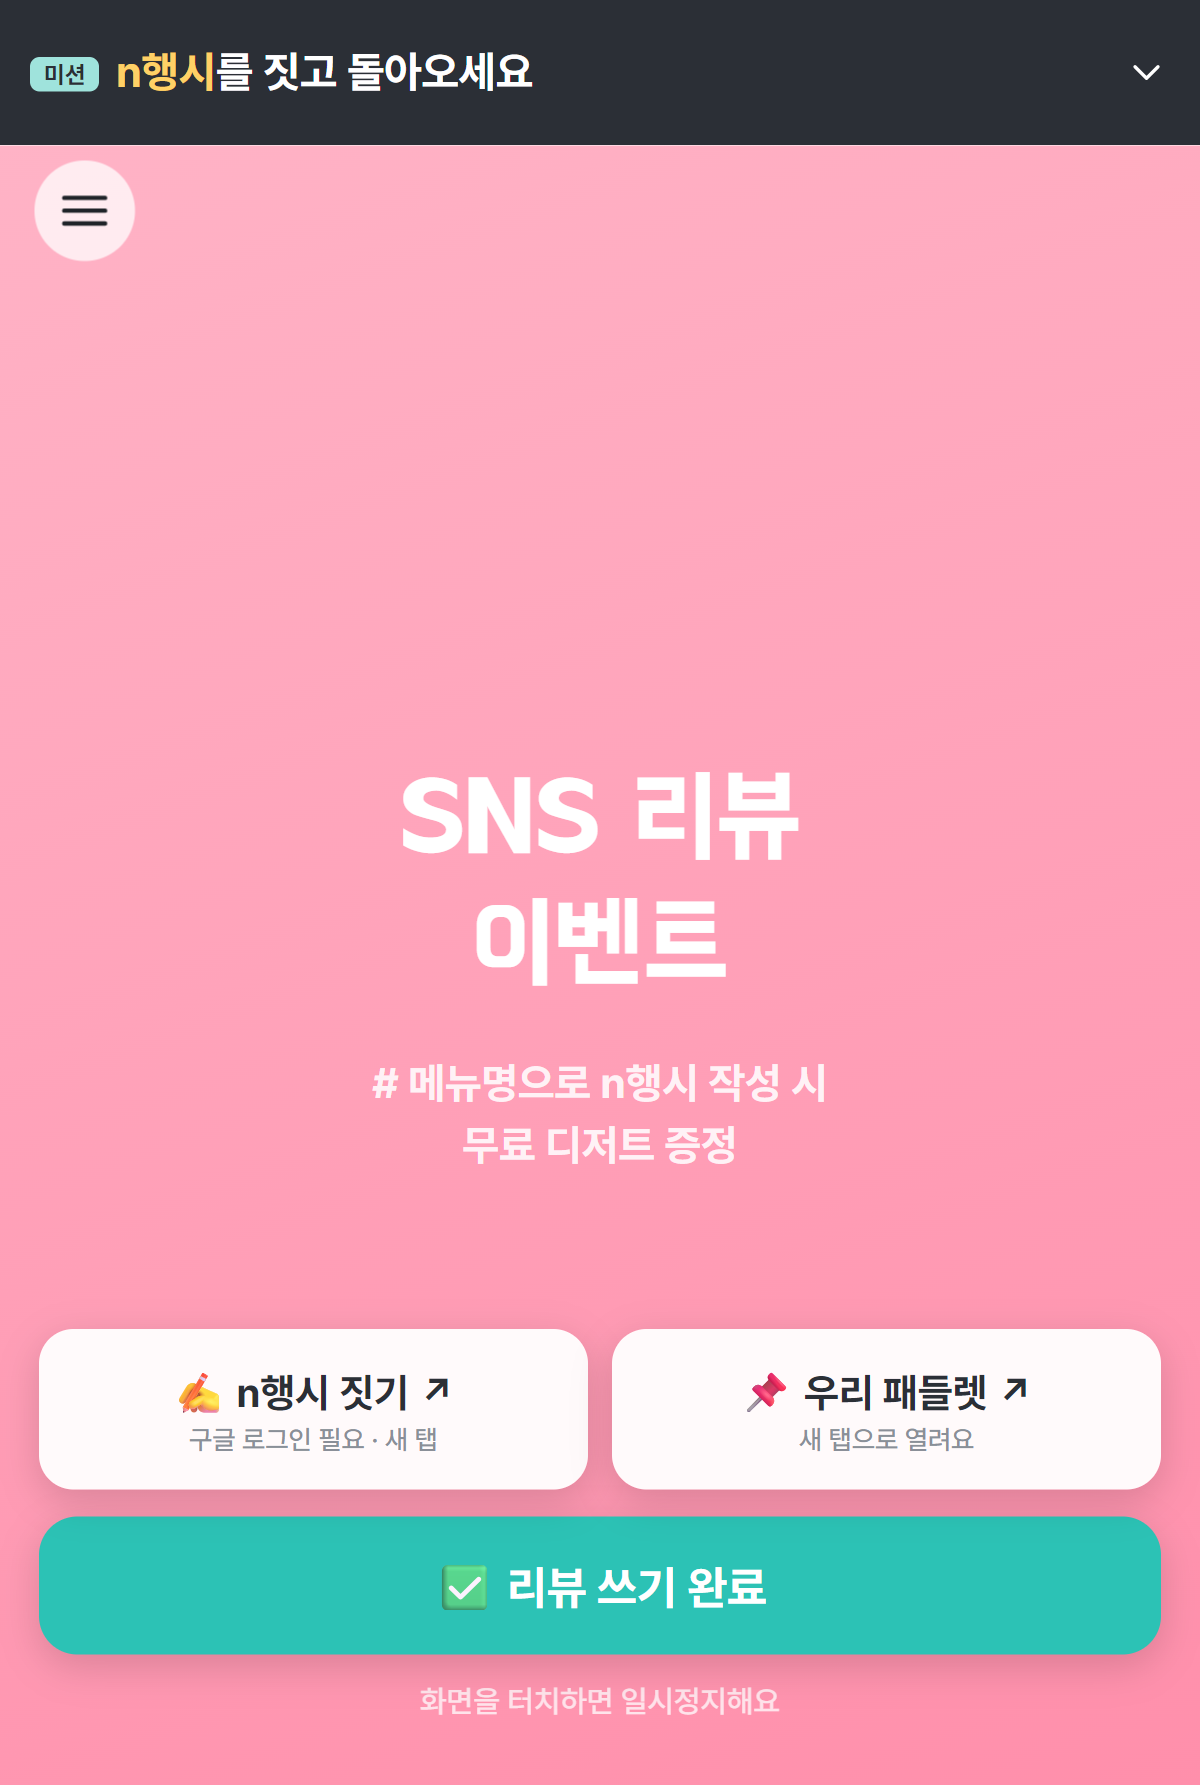
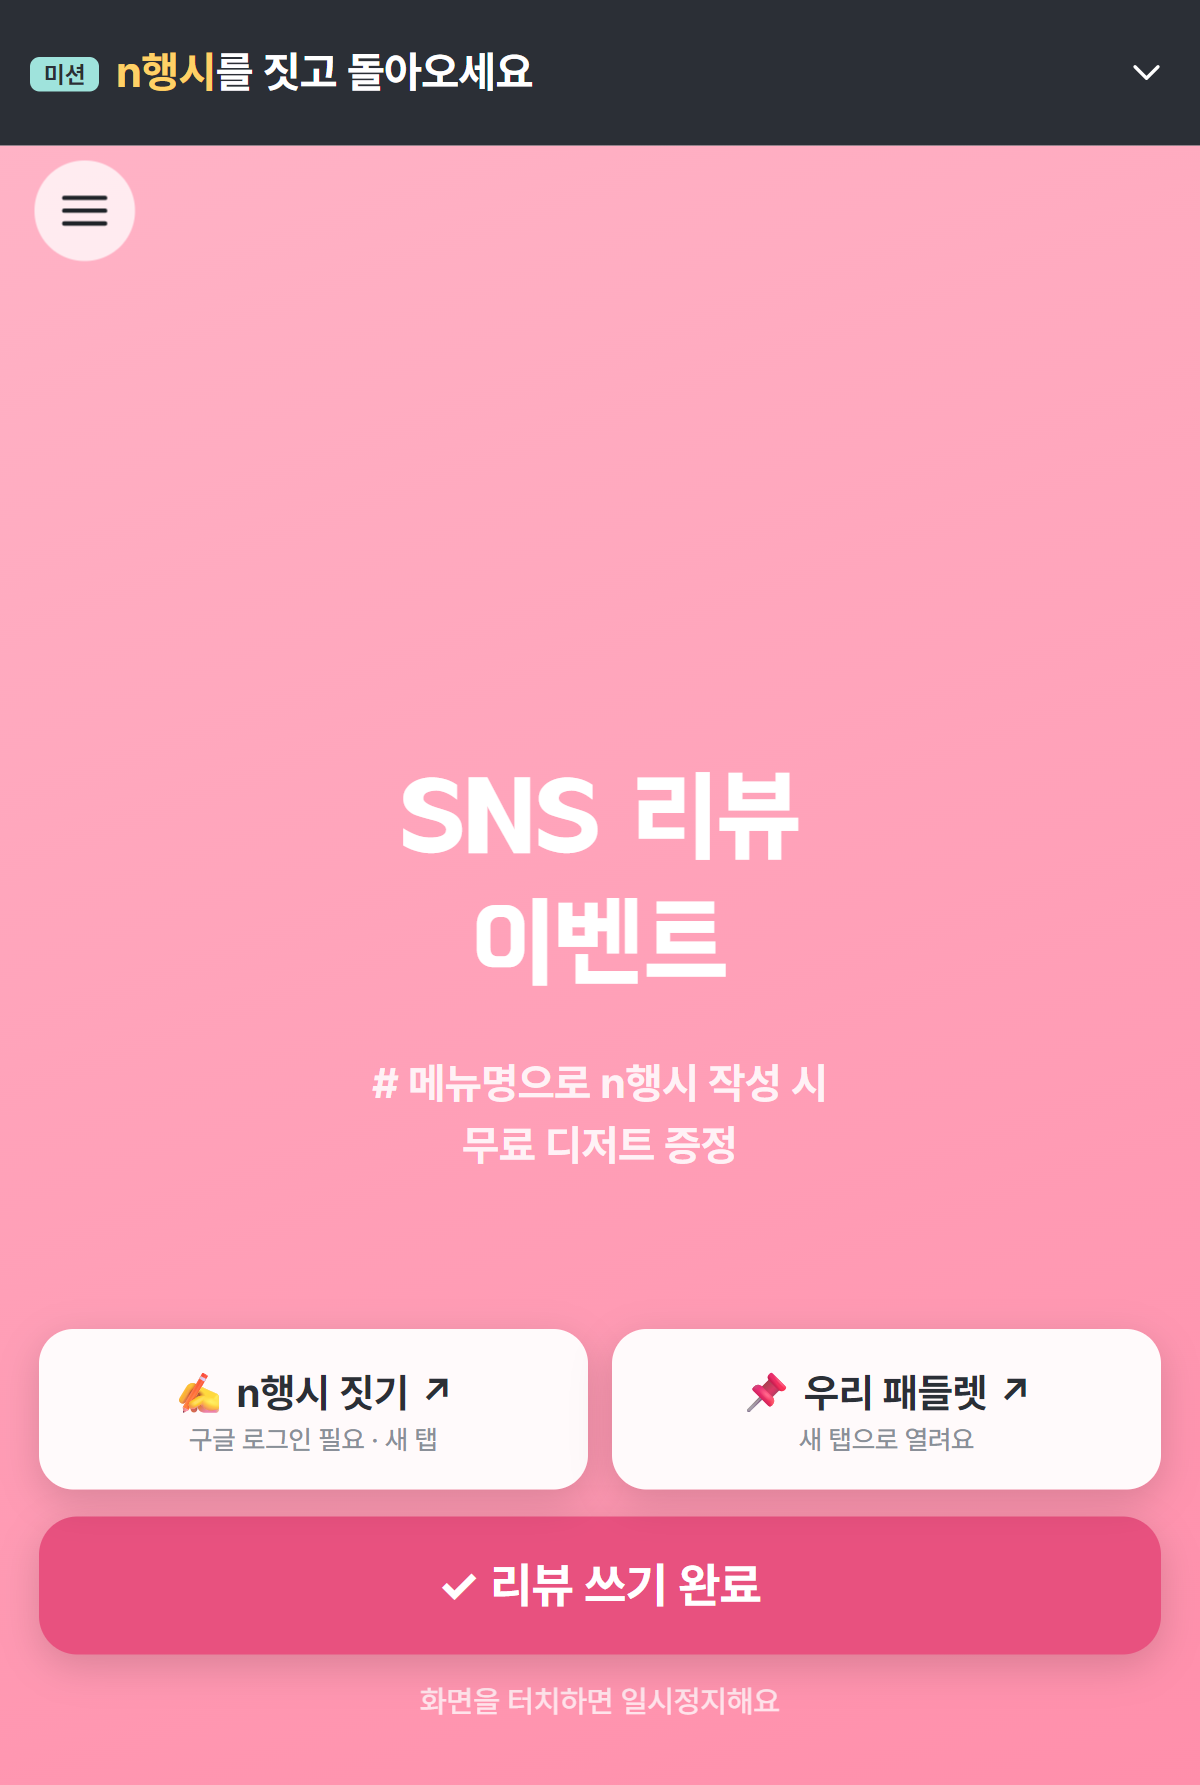
돌아다니기 리뷰 버튼: 배경 테마와 같은 계열 색(핑크면 진한 로즈) + 흰 ✓, 슬라이드 사진도 교체

Changed region(s): [[0.0308, 0.8319, 0.9867, 0.9244]]

diff --git a/index.html b/index.html
@@ -419,7 +419,7 @@ html.bz-on #bizStrip{display:block}
 .nm-step small{display:block;font-size:.75rem;color:var(--ink2);margin-top:.15rem;word-break:keep-all}
 .nm-btn{flex:none;align-self:center;background:#e9774c;color:#fff;border-radius:1rem;padding:.4rem .8rem;font-size:.78rem;font-weight:700}
 .nm-step.ok .nm-btn{background:#fff;color:var(--ink3);box-shadow:0 0 0 1px #e3e6ea inset}
-.roam-done{position:absolute;left:1rem;right:1rem;bottom:calc(env(safe-area-inset-bottom) + 3.4rem);z-index:5;height:3.6rem;border-radius:1rem;background:#2cc2b5;color:#fff;font-weight:800;font-size:1.2rem;box-shadow:0 .3rem 1rem rgba(0,0,0,.15)}
+.roam-done{position:absolute;left:1rem;right:1rem;bottom:calc(env(safe-area-inset-bottom) + 3.4rem);z-index:5;height:3.6rem;border-radius:1rem;background:#2cc2b5;color:#fff;font-weight:800;font-size:1.25rem;box-shadow:0 .3rem 1rem rgba(0,0,0,.15)}
 .roam-links{position:absolute;left:1rem;right:1rem;bottom:calc(env(safe-area-inset-bottom) + 3.4rem);}
 .roam-done ~ .roam-links{bottom:calc(env(safe-area-inset-bottom) + 7.7rem);}
 .roam-links{display:grid;grid-template-columns:1fr 1fr;gap:.6rem;z-index:5}
@@ -805,13 +805,13 @@ const FOODS = [ // food.png 스프라이트 (행 0~3, 열 0~4)
   '떡볶이','순대','튀김','라면','김밥','비빔밥','된장찌개','불고기','냉면','제육볶음',
   '초밥','라멘','짜장면','짬뽕','마라탕','파스타','피자','스테이크','햄버거','리조또'];
 const BGS = [
-  {id:'white', bg:'#ffffff', fg:'#1f2328', sub:'#5b6370'},
-  {id:'blue',  bg:'linear-gradient(160deg,#7b7fe3 0%,#6aa6e8 100%)', fg:'#ffffff', sub:'#eef3ff'},
-  {id:'pink',  bg:'linear-gradient(160deg,#ffb3c6 0%,#ff8fab 100%)', fg:'#ffffff', sub:'#fff2f6'},
-  {id:'cream', bg:'#fff4d6', fg:'#6b3d12', sub:'#8a5a2b'},
-  {id:'mint',  bg:'linear-gradient(160deg,#5fd3c4 0%,#2cb5a8 100%)', fg:'#ffffff', sub:'#effffb'},
-  {id:'navy',  bg:'#1d2b4f', fg:'#ffffff', sub:'#c9d4f2'},
-  {id:'hanji', bg:'#f3ead8', fg:'#2b2118', sub:'#6d5a43'},
+  {id:'white', bg:'#ffffff', fg:'#1f2328', sub:'#5b6370', btn:'#2b2f36'},   // btn: 화면 위 버튼 색 (배경과 같은 계열로)
+  {id:'blue',  bg:'linear-gradient(160deg,#7b7fe3 0%,#6aa6e8 100%)', fg:'#ffffff', sub:'#eef3ff', btn:'#4b4fc4'},
+  {id:'pink',  bg:'linear-gradient(160deg,#ffb3c6 0%,#ff8fab 100%)', fg:'#ffffff', sub:'#fff2f6', btn:'#e8517f'},
+  {id:'cream', bg:'#fff4d6', fg:'#6b3d12', sub:'#8a5a2b', btn:'#c46a1f'},
+  {id:'mint',  bg:'linear-gradient(160deg,#5fd3c4 0%,#2cb5a8 100%)', fg:'#ffffff', sub:'#effffb', btn:'#127f75'},
+  {id:'navy',  bg:'#1d2b4f', fg:'#ffffff', sub:'#c9d4f2', btn:'#ff8a3d'},
+  {id:'hanji', bg:'#f3ead8', fg:'#2b2118', sub:'#6d5a43', btn:'#8a5a2b'},
 ];
 // 꿈트리 갤러리의 예시 포스터 (홍보 화면 포스터 영역 1200×1760 · 세로 2:3)
 const POSTERS = [['img/poster_example.png','한글날 우리말 새 메뉴'], ['img/poster_burger.png','두툼 버거 & 바싹 감튀'], ['img/poster_malatang.png','달큼알알 마라탕'], ['img/poster_tteokbokki.png','달큼알알 쫀득 떡볶이']];
@@ -1405,7 +1405,7 @@ function goDisplay(mode){
   displayMode=mode;
   const c=S.content[mode];
   $('#display').innerHTML = contentHTML(c, imgOf(mode), false)
-    + (mode==='roam' && bizCur() && bizCur().id==='event' ? `<button class="roam-done" data-reviewdone>✅ 리뷰 쓰기 완료</button>` : '')   // 이벤트 미션 중: 손님이 리뷰를 다 쓰면 화면에서 바로
+    + (mode==='roam' && bizCur() && bizCur().id==='event' ? `<button class="roam-done" data-reviewdone style="background:${(BGS.find(x=>x.id===c.bg)||BGS[0]).btn}">✓ 리뷰 쓰기 완료</button>` : '')   // 이벤트 미션 중: 손님이 리뷰를 다 쓰면 화면에서 바로
     + (mode==='roam' ? `<div class="roam-links"><a href="${LINK_POEM}" target="_blank" rel="noopener">✍ n행시 짓기 ↗<small>구글 로그인 필요 · 새 탭</small></a><a href="${LINK_PADLET}" target="_blank" rel="noopener">📌 우리 패들렛 ↗<small>새 탭으로 열려요</small></a></div>` : '');   // 돌아다니는 동안 손님이 바로 리뷰·n행시
   show('display');
   const nf=MS().newFood; speak(mode==='promo' && c.tts===DEFAULTS.content.promo.tts && isNew(nf) ? `한글날 100주년 신메뉴, ${menuName(nf)} 출시 기념! 할인 이벤트를 진행해요.` : c.tts, c.ttsRate);
